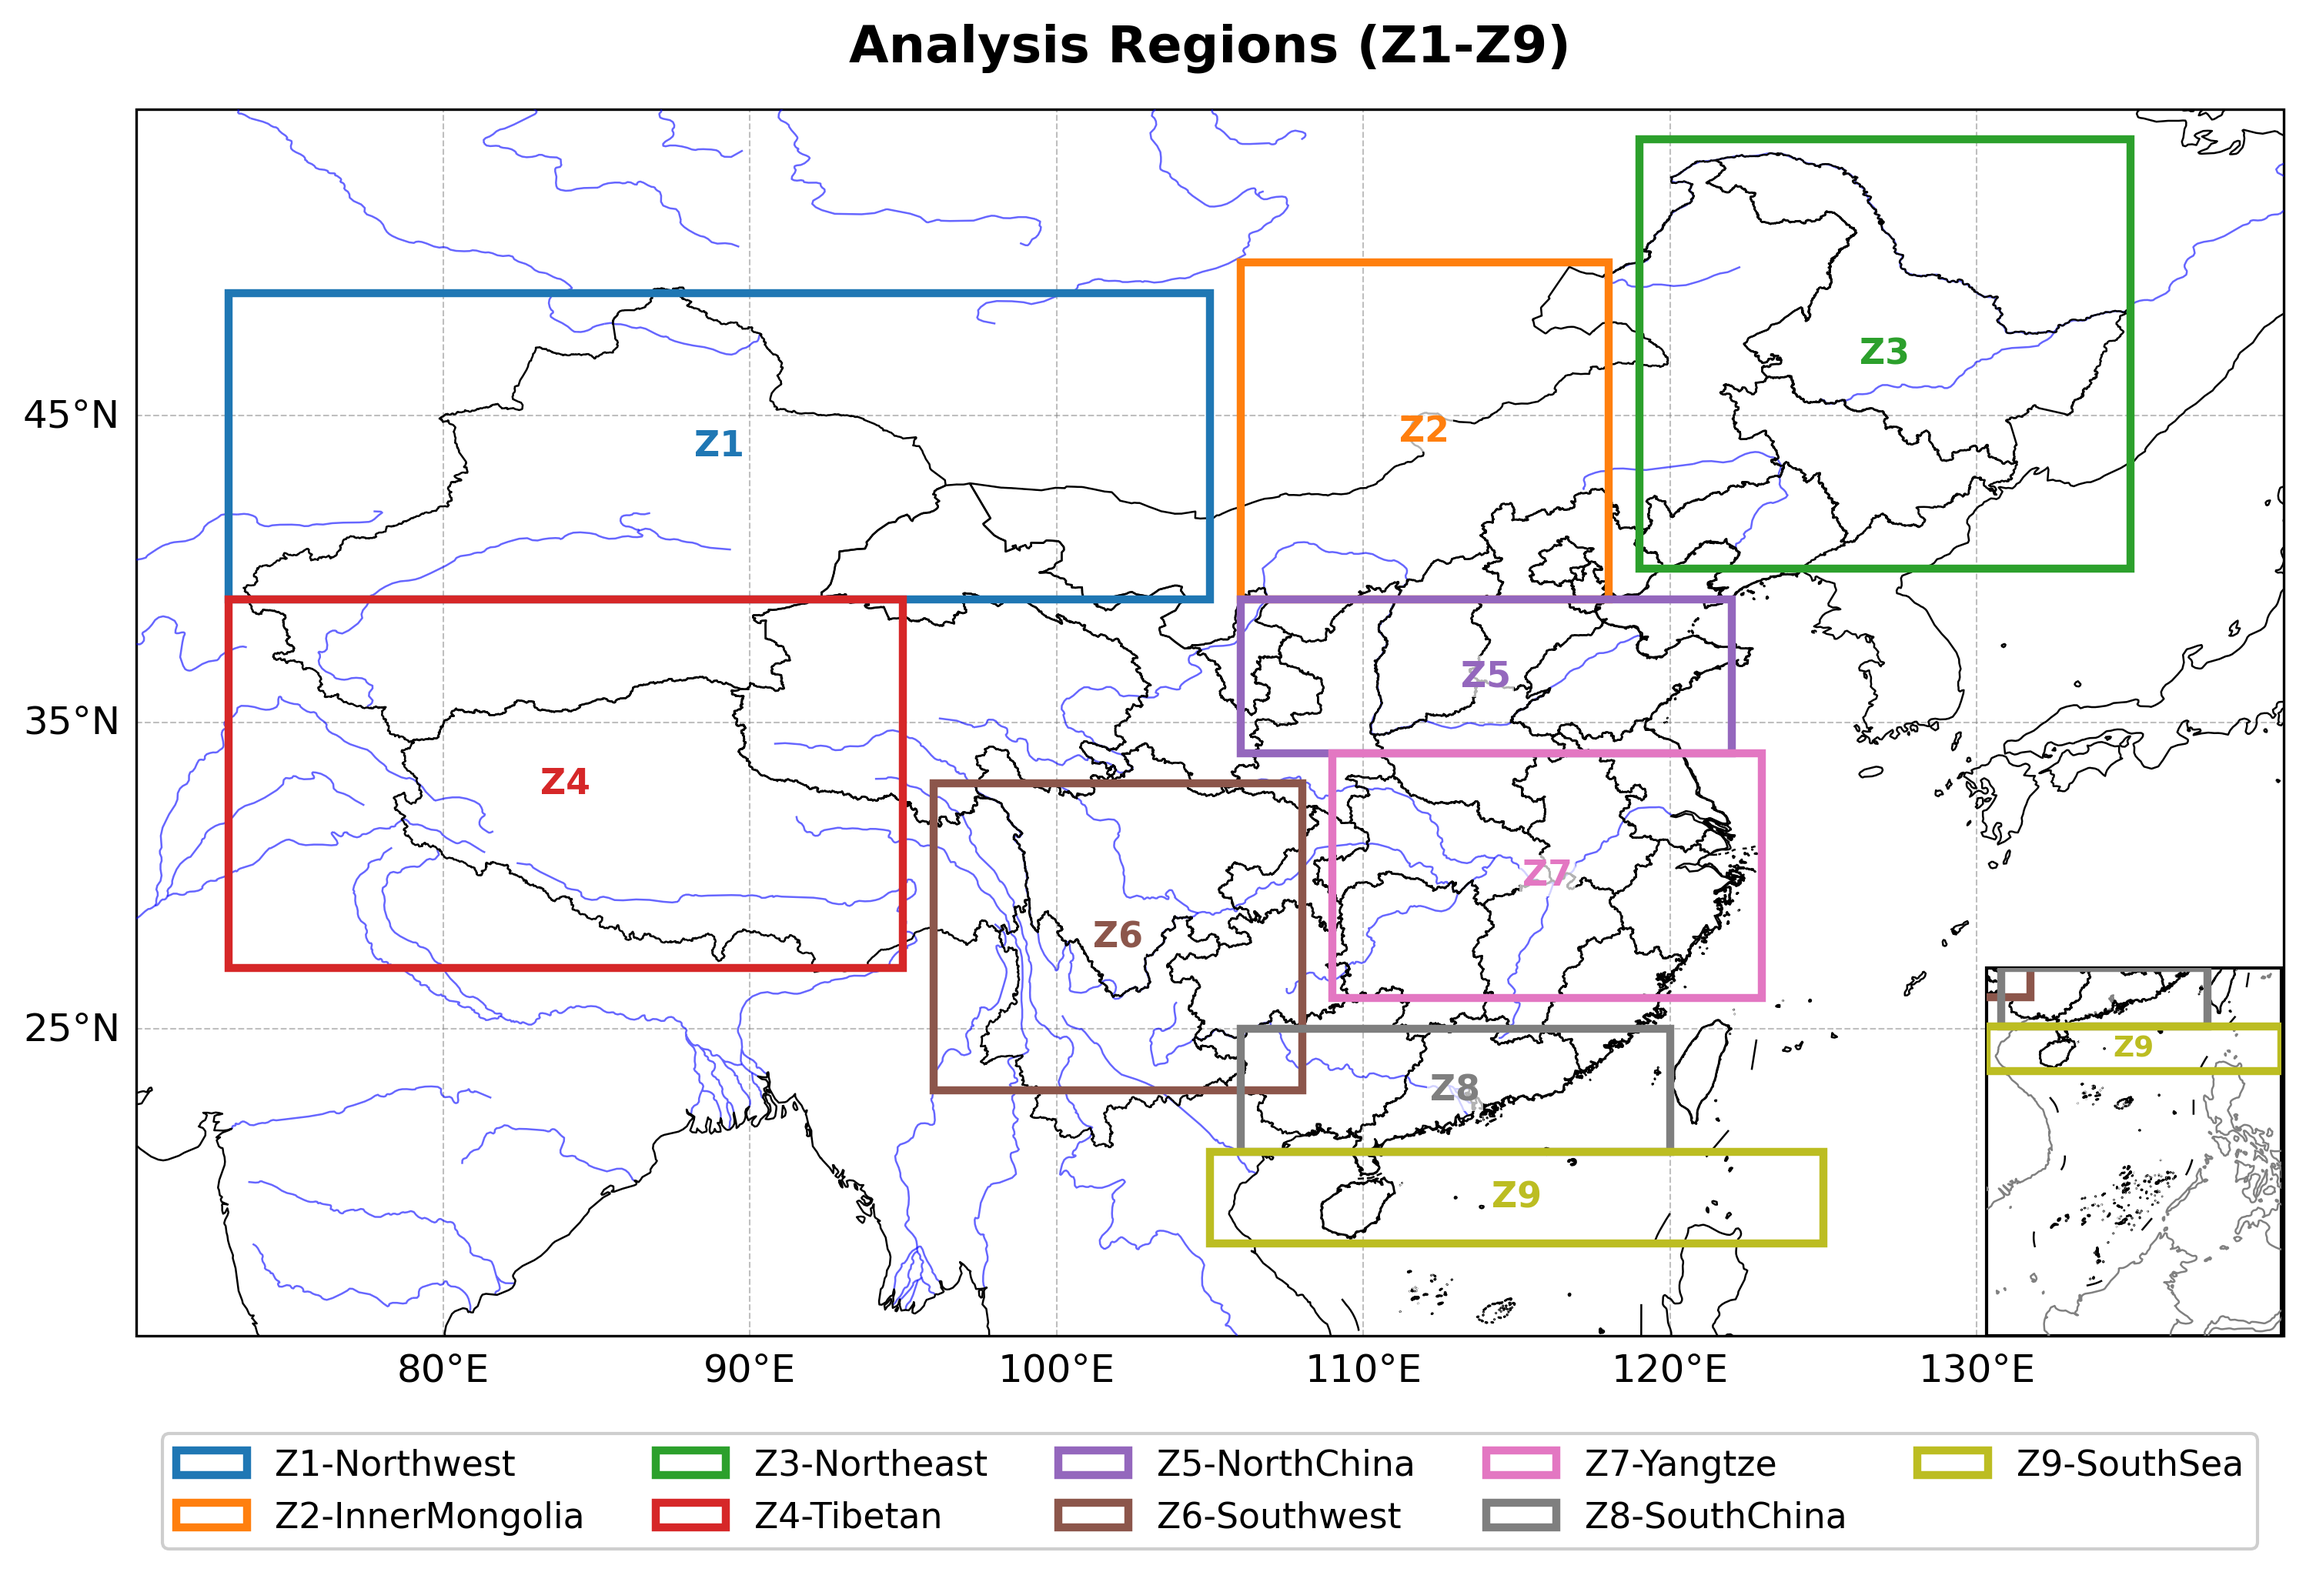
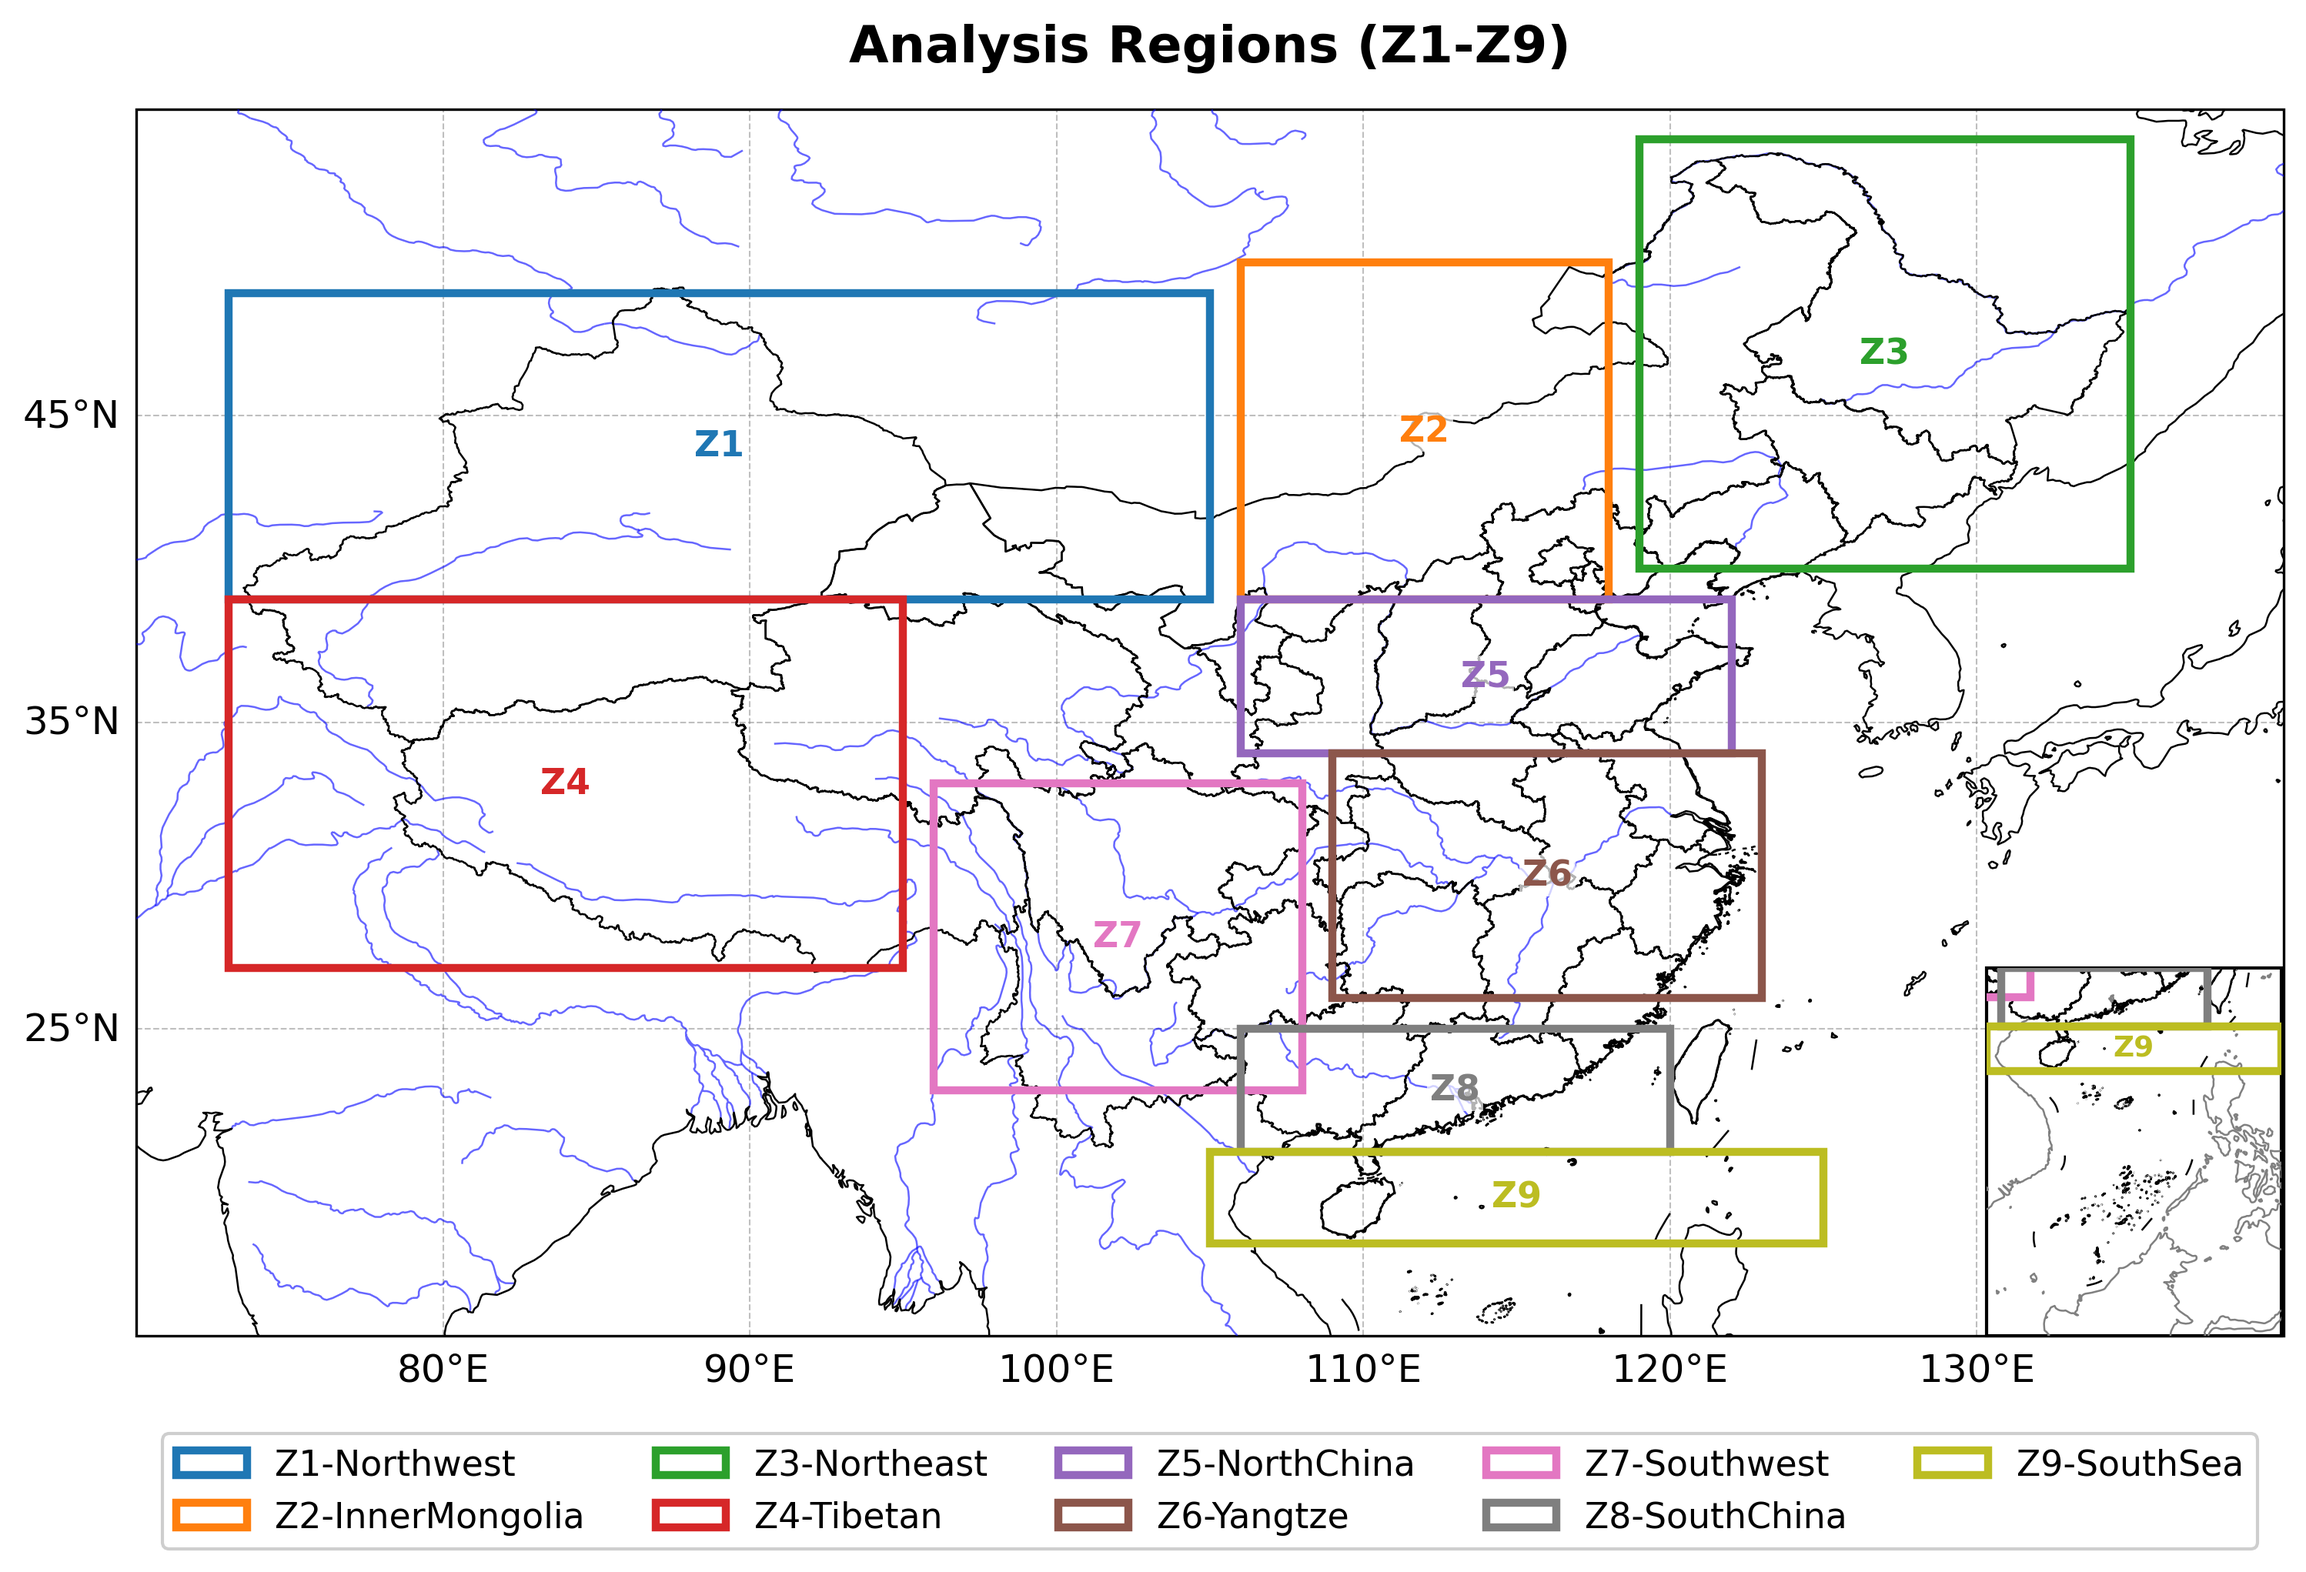
modified regions' tags

diff --git a/MMPE/combined_error_analysis.py b/MMPE/combined_error_analysis.py
@@ -67,8 +67,8 @@ def generate_regions():
         'Z3-Northeast':     {'lat': (40, 54), 'lon': (119, 135)},
         'Z4-Tibetan':       {'lat': (27, 39), 'lon': (73, 95)},
         'Z5-NorthChina':    {'lat': (34, 39), 'lon': (106, 122)},
-        'Z7-Yangtze':       {'lat': (26, 34), 'lon': (109, 123)},
-        'Z6-Southwest':     {'lat': (23, 33), 'lon': (96, 108)},
+        'Z6-Yangtze':       {'lat': (26, 34), 'lon': (109, 123)},
+        'Z7-Southwest':     {'lat': (23, 33), 'lon': (96, 108)},
         'Z8-SouthChina':    {'lat': (21, 25), 'lon': (106, 120)},
         'Z9-SouthSea':      {'lat': (18, 21), 'lon': (105, 125)}
     })
@@ -495,8 +495,8 @@ class MultiModelErrorAnalyzer:
             else:
                 region_order = [
                     'Z1-Northwest', 'Z2-InnerMongolia', 'Z3-Northeast',
-                    'Z4-Tibetan',   'Z5-NorthChina',    'Z7-Yangtze',
-                    'Z6-Southwest', 'Z8-SouthChina',    'Z9-SouthSea'
+                    'Z4-Tibetan',   'Z5-NorthChina',    'Z6-Yangtze',
+                    'Z7-Southwest', 'Z8-SouthChina',    'Z9-SouthSea'
                 ]
                 regions = [r for r in region_order if r in region_metric_data]
                 if not regions: return
@@ -504,8 +504,8 @@ class MultiModelErrorAnalyzer:
                 axes = {}
                 subplot_map = {
                     'Z1-Northwest': (0,0), 'Z2-InnerMongolia': (0,1), 'Z3-Northeast': (0,2),
-                    'Z4-Tibetan': (1,0), 'Z5-NorthChina': (1,1), 'Z7-Yangtze': (1,2),
-                    'Z6-Southwest': (2,0), 'Z8-SouthChina': (2,1), 'Z9-SouthSea': (2,2)
+                    'Z4-Tibetan': (1,0), 'Z5-NorthChina': (1,1), 'Z6-Yangtze': (1,2),
+                    'Z7-Southwest': (2,0), 'Z8-SouthChina': (2,1), 'Z9-SouthSea': (2,2)
                 }
                 for r in regions:
                     row, col = subplot_map[r]

diff --git a/MMPE/combined_pearson_analysis.py b/MMPE/combined_pearson_analysis.py
@@ -160,9 +160,9 @@ def generate_regions():
         # --- 中部行 ---
         'Z4-Tibetan':       {'lat': (27, 39), 'lon': (73, 95)},    # 青藏高寒区
         'Z5-NorthChina':    {'lat': (34, 39), 'lon': (106, 122)},  # 黄土-华北区
-        'Z7-Yangtze':       {'lat': (26, 34), 'lon': (109, 123)},  # 长江中下游区
+        'Z6-Yangtze':       {'lat': (26, 34), 'lon': (109, 123)},  # 长江中下游区
         # --- 南部行 ---
-        'Z6-Southwest':     {'lat': (23, 33), 'lon': (96, 108)},   # 四川-西南区
+        'Z7-Southwest':     {'lat': (23, 33), 'lon': (96, 108)},   # 四川-西南区
         'Z8-SouthChina':    {'lat': (21, 25), 'lon': (106, 120)},  # 华南湿润区
         'Z9-SouthSea':      {'lat': (18, 21), 'lon': (105, 125)}   # 南海热带区
     })
@@ -1451,8 +1451,8 @@ class SeasonalMonthlyPearsonAnalyzer:
             # 第三行：西南(Z6) - 华南(Z8) - 南海(Z9)
             subplot_positions = {
                 'Z1-Northwest':     (0, 0), 'Z2-InnerMongolia': (0, 1), 'Z3-Northeast': (0, 2),
-                'Z4-Tibetan':       (1, 0), 'Z5-NorthChina':    (1, 1), 'Z7-Yangtze':   (1, 2),
-                'Z6-Southwest':     (2, 0), 'Z8-SouthChina':    (2, 1), 'Z9-SouthSea':  (2, 2)
+                'Z4-Tibetan':       (1, 0), 'Z5-NorthChina':    (1, 1), 'Z6-Yangtze':   (1, 2),
+                'Z7-Southwest':     (2, 0), 'Z8-SouthChina':    (2, 1), 'Z9-SouthSea':  (2, 2)
             }
             
             cmap = plt.get_cmap('tab10')

diff --git a/MMPE/heat_map.py b/MMPE/heat_map.py
@@ -39,8 +39,8 @@ except ImportError:
 REGION_GLOBAL = 'Global'
 REGIONS_Z = [
     'Z1-Northwest', 'Z2-InnerMongolia', 'Z3-Northeast',
-    'Z4-Tibetan',   'Z5-NorthChina',    'Z7-Yangtze',
-    'Z6-Southwest', 'Z8-SouthChina',    'Z9-SouthSea'
+    'Z4-Tibetan',   'Z5-NorthChina',    'Z6-Yangtze',
+    'Z7-Southwest', 'Z8-SouthChina',    'Z9-SouthSea'
 ]
 
 MONTHS = ['Jan', 'Feb', 'Mar', 'Apr', 'May', 'Jun', 'Jul', 'Aug', 'Sep', 'Oct', 'Nov', 'Dec']
@@ -371,8 +371,8 @@ class RegionalHeatMapPlotter:
         
         region_grid = [
             ['Z1-Northwest', 'Z2-InnerMongolia', 'Z3-Northeast'],
-            ['Z4-Tibetan',   'Z5-NorthChina',    'Z7-Yangtze'],
-            ['Z6-Southwest', 'Z8-SouthChina',    'Z9-SouthSea']
+            ['Z4-Tibetan',   'Z5-NorthChina',    'Z6-Yangtze'],
+            ['Z7-Southwest', 'Z8-SouthChina',    'Z9-SouthSea']
         ]
 
         for col, metric in enumerate(metrics_order):

diff --git a/MMPE/plot_regions.py b/MMPE/plot_regions.py
@@ -30,8 +30,8 @@ REGIONS = {
     'Z3-Northeast':     {'lat': (40, 54), 'lon': (119, 135)},  # 东北湿润区
     'Z4-Tibetan':       {'lat': (27, 39), 'lon': (73, 95)},    # 青藏高寒区
     'Z5-NorthChina':    {'lat': (34, 39), 'lon': (106, 122)},  # 黄土-华北区
-    'Z7-Yangtze':       {'lat': (26, 34), 'lon': (109, 123)},  # 长江中下游区
-    'Z6-Southwest':     {'lat': (23, 33), 'lon': (96, 108)},   # 四川-西南区
+    'Z6-Yangtze':       {'lat': (26, 34), 'lon': (109, 123)},  # 长江中下游区
+    'Z7-Southwest':     {'lat': (23, 33), 'lon': (96, 108)},   # 四川-西南区
     'Z8-SouthChina':    {'lat': (21, 25), 'lon': (106, 120)},  # 华南湿润区
     'Z9-SouthSea':      {'lat': (18, 21), 'lon': (105, 125)}   # 南海热带区
 }
